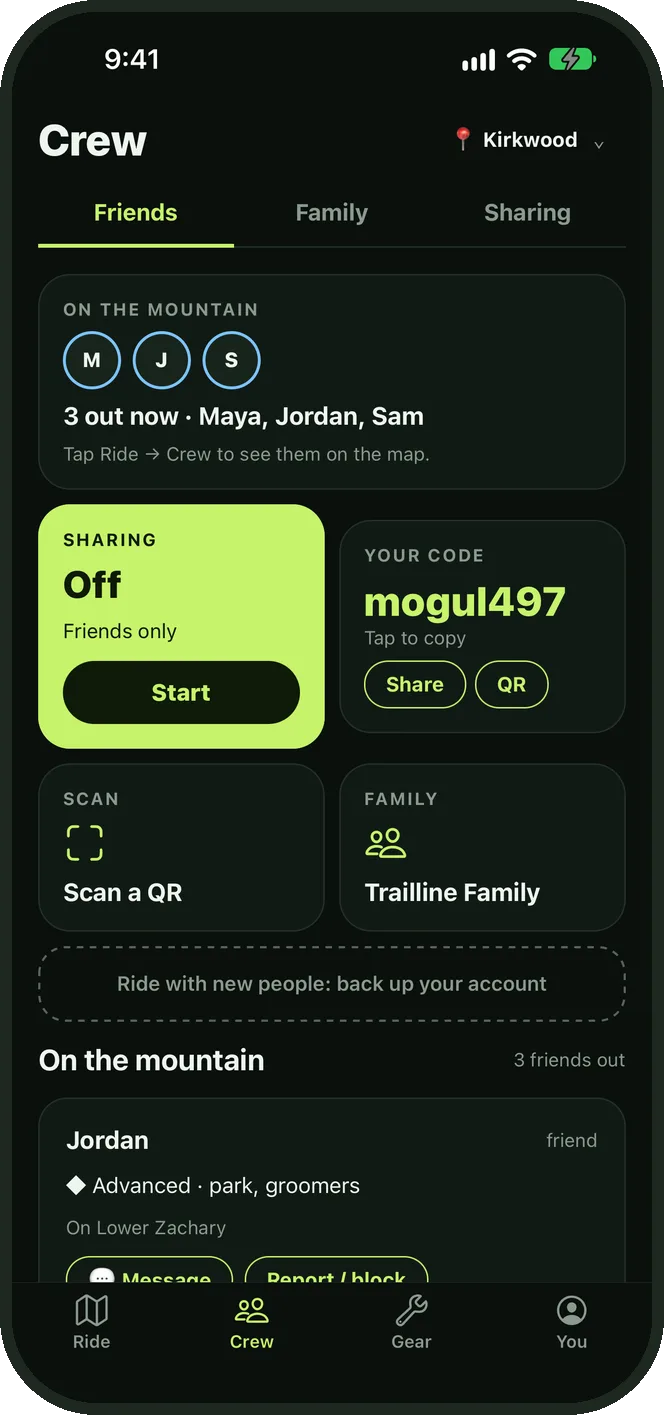
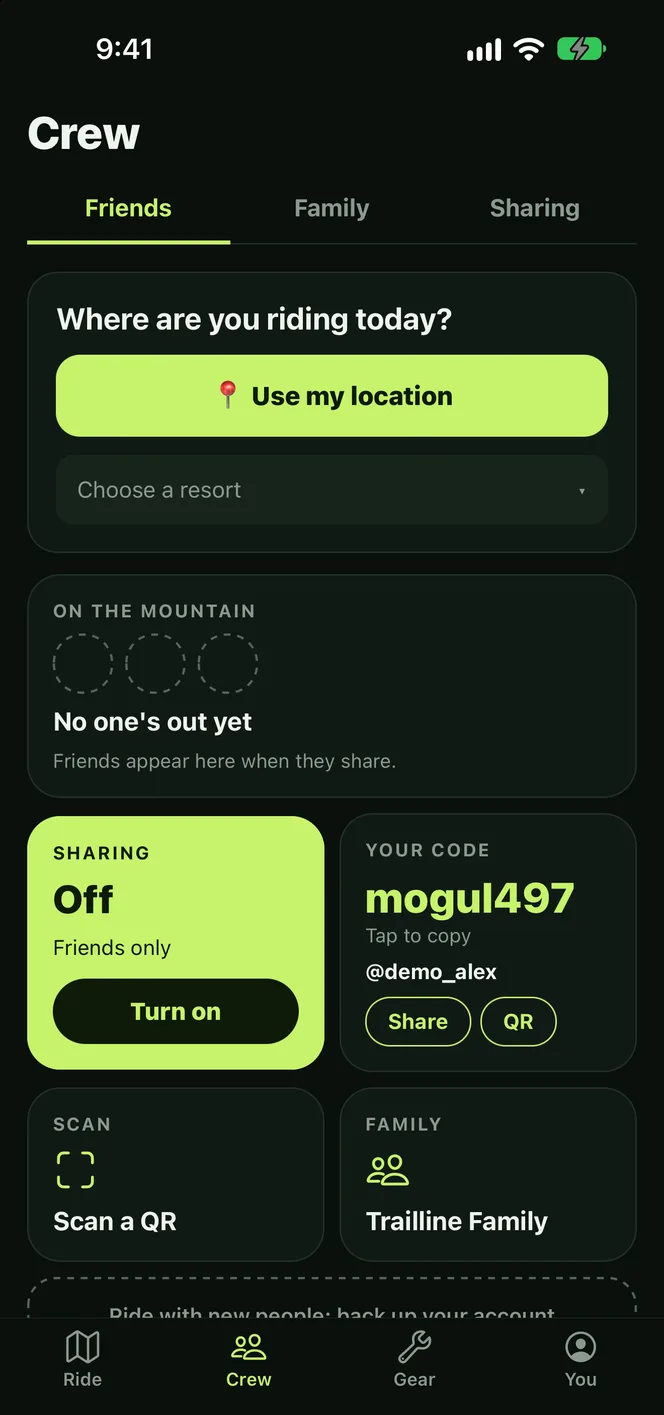
Site: iPhone lock screen and Apple Watch section, fresh Crew screenshot

diff --git a/index.html b/index.html
@@ -17,7 +17,7 @@
 <link rel="preconnect" href="https://fonts.googleapis.com">
 <link rel="preconnect" href="https://fonts.gstatic.com" crossorigin>
 <link rel="stylesheet" href="https://fonts.googleapis.com/css2?family=Archivo:ital,wdth,wght@0,62..125,400..900;1,62..125,700..900&display=swap">
-<link rel="stylesheet" href="styles.css?v=202611131318">
+<link rel="stylesheet" href="styles.css?v=202611131347">
 </head>
 <body class="home">
 <script>document.documentElement.classList.add("js")</script>
@@ -116,7 +116,7 @@
     </div>
     <div class="demo-phone reveal">
       <div class="bezel">
-        <video id="demo-video" src="img/demo.mp4?v=202611131318" poster="img/demo-poster.webp" muted loop playsinline preload="metadata"
+        <video id="demo-video" src="img/demo.mp4?v=202611131347" poster="img/demo-poster.webp" muted loop playsinline preload="metadata"
           aria-label="Trailline demo: tapping a run, saving a line, finding friends and meeting at a lift"></video>
         <button class="play" type="button" aria-label="Play demo">▶</button>
       </div>
@@ -154,7 +154,7 @@
       <div class="panels">
         <div class="panel active" data-tab="ride">
           <h3>Your day, drawn on the mountain</h3>
-          <p>Tap Start and put your phone away. Trailline knows when you're on a lift and when you're riding, and lights up each trail as you go.</p>
+          <p>Tap Start riding and put your phone away. Trailline knows when you're on a lift and when you're riding, and lights up each trail as you go.</p>
           <ul><li>Runs, vertical and laps, live</li><li>Auto-pause in the lodge and lift lines</li><li>Saves to Apple Health or Health Connect</li></ul>
         </div>
         <div class="panel" data-tab="runs">
@@ -193,6 +193,45 @@
         </div>
       </div>
     </div>
+  </div>
+</section>
+
+<section id="wrist">
+  <div class="wrap">
+    <p class="eyebrow reveal">iPhone lock screen &amp; Apple Watch</p>
+    <h2 class="display reveal">Leave your phone <span>in your pocket</span>.</h2>
+    <p class="section-lede reveal">Start a day, check your numbers and answer your crew from your wrist or your lock screen, without taking your gloves off.</p>
+    <div class="wrist reveal">
+      <figure class="wm watch" aria-label="Trailline on Apple Watch: today's runs, vertical and top speed, a Start riding button and your crew chats">
+        <div class="face">
+          <small class="lime">Recording</small>
+          <b>Kirkwood</b>
+          <div class="nums"><span><b>14</b>runs</span><span><b>18.2k</b>ft</span><span><b>44</b>mph</span></div>
+          <div class="wbtn stop">■ Stop</div>
+          <small>Crew</small>
+          <div class="wrow">Tahoe crew<small>Sam: Bottom of Cornice?</small></div>
+        </div>
+        <figcaption>Apple Watch app</figcaption>
+      </figure>
+      <figure class="wm lock" aria-label="Lock screen Live Activity showing runs, vertical and top speed while recording">
+        <div class="la">
+          <div class="la-top"><span class="lime">▲</span> Kirkwood <em>Recording</em></div>
+          <div class="nums"><span><b>14</b>runs</span><span><b>18,240</b>ft vertical</span><span><b>44</b>mph top</span></div>
+          <small>Last run: The Wall</small>
+        </div>
+        <div class="note">
+          <div class="note-top"><b>Sam · Tahoe crew</b><small>now</small></div>
+          <p>Meet at the bottom of Cornice?</p>
+          <div class="acts"><span>On my way</span><span>Meet at the bottom</span><span>📍 Send my spot</span><span>Reply</span></div>
+        </div>
+        <figcaption>Lock screen: live stats and reply buttons</figcaption>
+      </figure>
+    </div>
+    <ul class="wrist-list reveal">
+      <li><b>Live on your lock screen.</b> Runs, vertical and top speed while you record, in the Dynamic Island too.</li>
+      <li><b>Reply without unlocking.</b> “On my way”, “Meet at the bottom” or 📍 your spot, right from the notification, on iPhone or Watch.</li>
+      <li><b>Trailline for Apple Watch.</b> Start or stop riding, see today's numbers and send quick replies to your crew.</li>
+    </ul>
   </div>
 </section>
 
@@ -259,6 +298,6 @@
     <div>© 2026 Trailline · Not affiliated with any ski resort · Map data © OpenStreetMap contributors · Weather by Open-Meteo</div>
   </div>
 </footer>
-<script src="main.js?v=202611131318" defer></script>
+<script src="main.js?v=202611131347" defer></script>
 </body>
 </html>

diff --git a/styles.css b/styles.css
@@ -346,3 +346,33 @@ footer a:hover { color: var(--text); }
 
 .btn small { font-size: 11px; font-weight: 800; text-transform: uppercase; letter-spacing: 1px; opacity: .65; margin-left: 2px; }
 .note .platforms { color: var(--lime); }
+
+/* On your wrist: drawn mockups of the Watch app and the lock screen (no animation). */
+.wrist { display: flex; flex-wrap: wrap; gap: 36px; justify-content: center; align-items: center; margin: 28px 0; }
+.wm { margin: 0; display: flex; flex-direction: column; align-items: center; gap: 12px; }
+.wm figcaption { color: var(--muted); font-size: 14px; }
+.lime { color: var(--lime); }
+.watch .face { width: 214px; height: 270px; border-radius: 56px; background: #000; border: 10px solid #2a312d; padding: 20px 18px; overflow: hidden; display: flex; flex-direction: column; gap: 6px; font-size: 13px; }
+.watch .face > b { font-size: 18px; }
+.nums { display: flex; gap: 14px; }
+.nums span { display: flex; flex-direction: column; font-size: 11px; color: var(--muted); }
+.nums b { font-size: 18px; color: var(--text); font-variant-numeric: tabular-nums; }
+.wbtn { border-radius: 999px; text-align: center; padding: 8px 0; font-weight: 800; }
+.wbtn.stop { background: #e5484d; color: #fff; }
+.wrow { background: #1c2420; border-radius: 12px; padding: 6px 10px; display: flex; flex-direction: column; font-weight: 700; }
+.wrow small { color: var(--muted); font-weight: 400; }
+.lock { width: min(360px, 100%); }
+.la, .note { width: 100%; border-radius: 22px; padding: 14px 16px; }
+.la { background: #0d1510; border: 1px solid var(--border); display: flex; flex-direction: column; gap: 8px; }
+.la-top { display: flex; gap: 8px; font-weight: 800; }
+.la-top em { margin-left: auto; color: var(--lime); font-style: normal; font-size: 13px; }
+.la small { color: var(--muted); }
+.note { background: #1b231e; display: flex; flex-direction: column; gap: 6px; }
+.note-top { display: flex; justify-content: space-between; color: var(--text); }
+.note-top small { color: var(--muted); }
+.note p { margin: 0; }
+.acts { display: flex; flex-wrap: wrap; gap: 6px; }
+.acts span { background: #2a342e; border-radius: 999px; padding: 6px 11px; font-size: 13px; font-weight: 700; }
+.wrist-list { list-style: none; padding: 0; display: grid; grid-template-columns: repeat(auto-fit, minmax(240px, 1fr)); gap: 16px; }
+.wrist-list li { background: var(--card); border: 1px solid var(--border); border-radius: 18px; padding: 18px; color: var(--muted); }
+.wrist-list b { color: var(--text); display: block; margin-bottom: 4px; }
